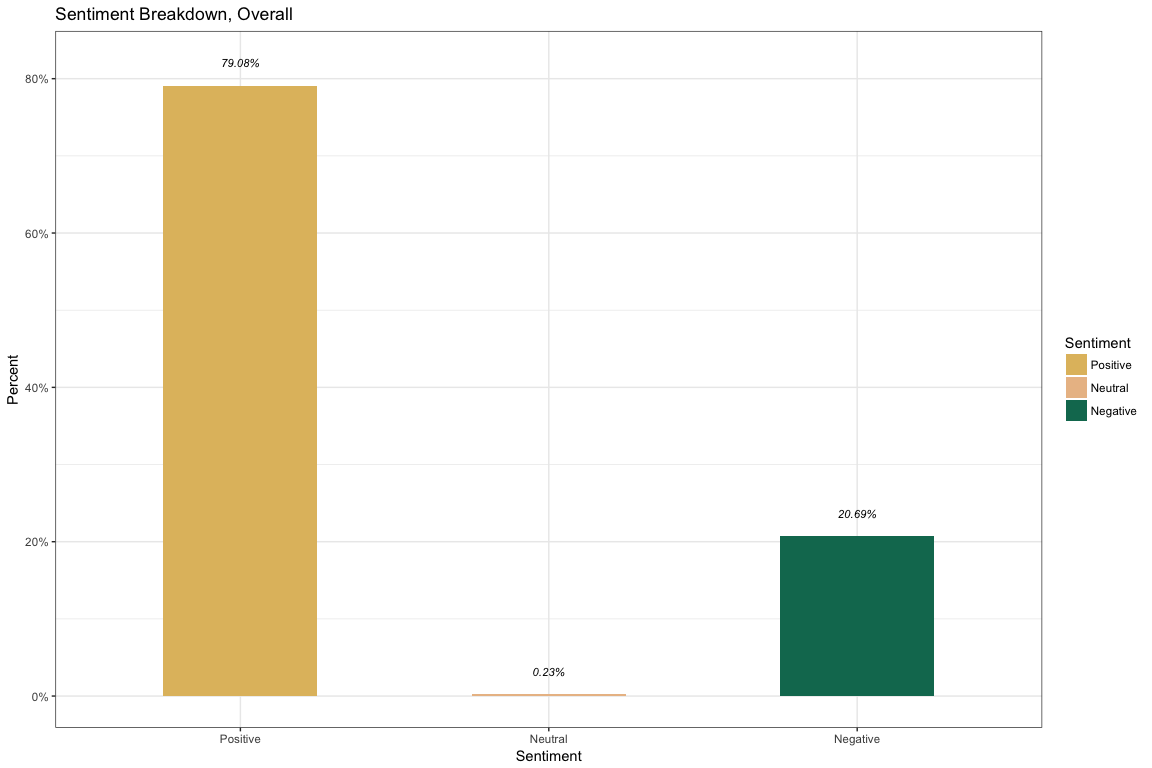
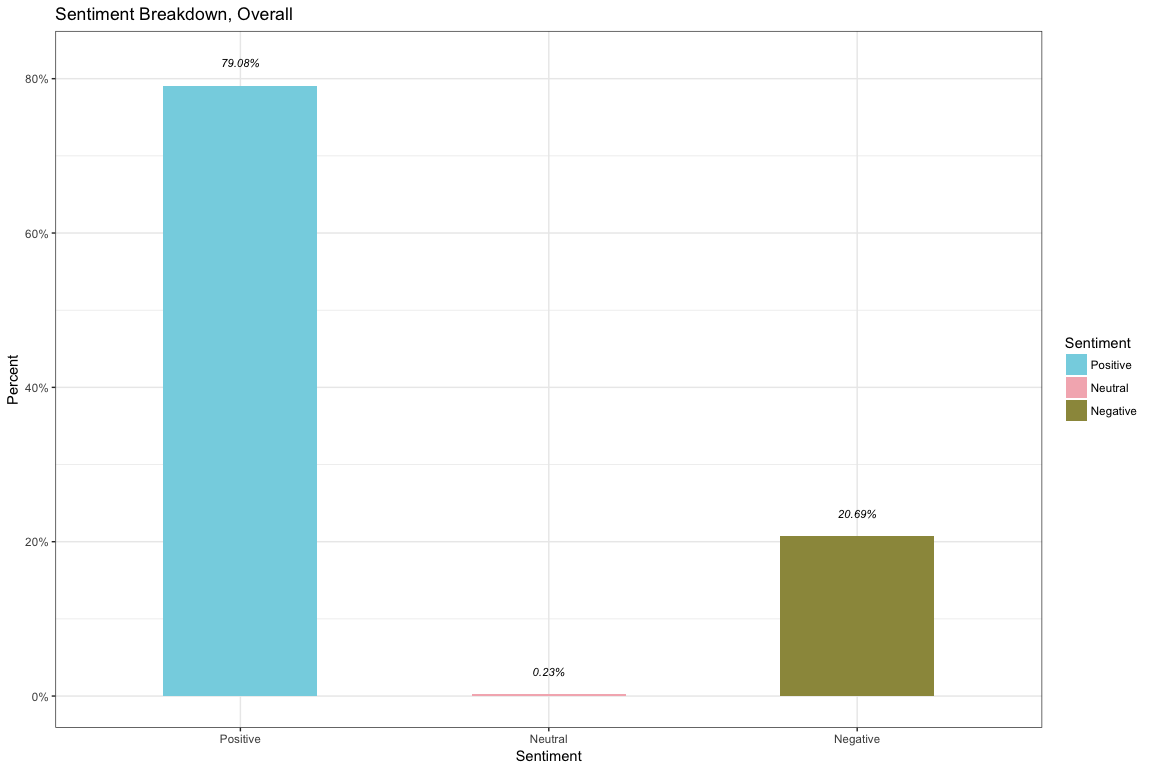
two palletes for two different types of sentiment

Changed region(s): [[0.125, 0.0938, 0.2812, 0.9062], [0.6562, 0.6875, 0.8125, 0.9062], [0.9062, 0.4688, 0.9688, 0.5625]]

diff --git a/analysis.md b/analysis.md
@@ -34,6 +34,7 @@ library(kableExtra)
 
 ```r
 pal <- wesanderson::wes_palette("Rushmore1")
+pal2 <- wesanderson::wes_palette("Moonrise3")
 
 round_dec <- function(x, n_dec = 3) {
   if (is.numeric(x)) {
